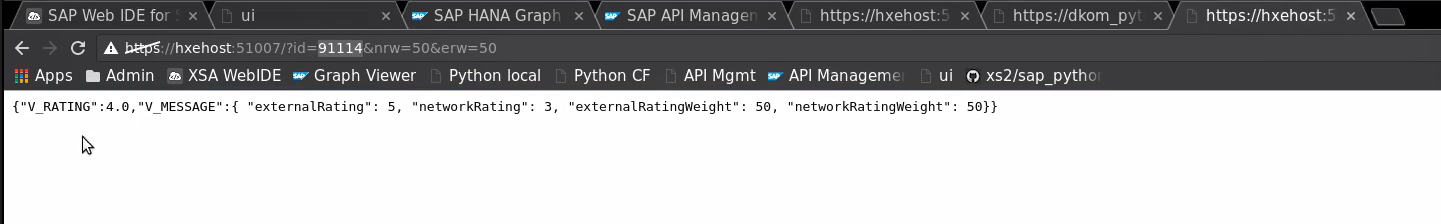
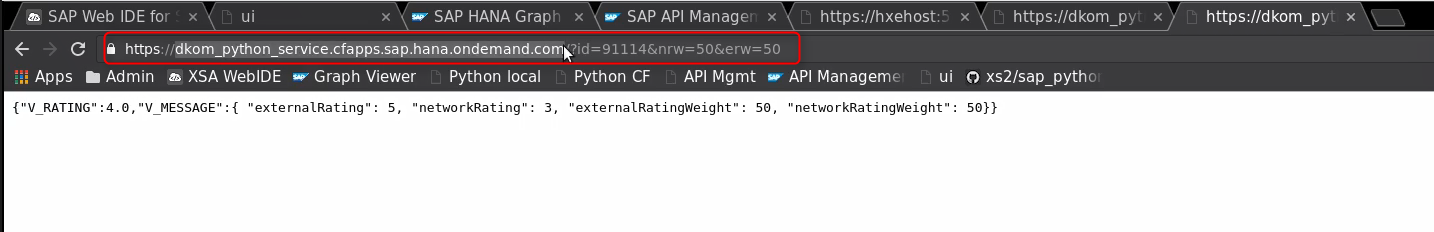
Updated browser deployment

Changed region(s): [[0.0, 0.0, 1.0, 0.4062], [0.0, 0.4375, 0.7057, 0.5], [0.0307, 0.6562, 0.0921, 0.6875]]

diff --git a/README.md b/README.md
@@ -248,14 +248,18 @@ Now, we’re done with the database artifacts. Let’s move on and create a cons
    
     ![Local deployment](https://github.com/AnnieSuantak/build-in-hxe-deploy-to-cloud/blob/master/Step4_2.png)
     
-3. The Python service is now deployed.
+3. The Python service is now starting up.
     ![Local deployment](https://github.com/AnnieSuantak/build-in-hxe-deploy-to-cloud/blob/master/Step4_3.png)
+    
+4. This deployment can be viewed on the browser. You can see the results for the stored procedure that was called.
+
+    ![Browser Local](https://github.com/AnnieSuantak/build-in-hxe-deploy-to-cloud/blob/master/Step4_4.png)
 
 [ACCORDION-END]
 
-[ACCORDION-BEGIN [Step 5: ](Deploy in CF & Show in Browser)]
+[ACCORDION-BEGIN [Step 5: ](Deploy on Cloud)]
 
-###Deploy in CF & Show in Browser
+###Deploy on Cloud
 
 1. This same service can also be deployed in the cloud. The `manifest-cf.yml` file enables the deployment. The only thing we have to do is to replace `xs` by `cf` in the command line, and `manifest.yml` by `manifest-cf.yml`
     
@@ -271,7 +275,7 @@ Now, we’re done with the database artifacts. Let’s move on and create a cons
     
 4. This deployment can be viewed on the browser. You can see the results for the stored procedure that was called.
     
-    ![Browser](https://github.com/AnnieSuantak/build-in-hxe-deploy-to-cloud/blob/master/Step5_4.png)
+    ![Browser Cloud](https://github.com/AnnieSuantak/build-in-hxe-deploy-to-cloud/blob/master/Step5_4.png)
 
 [ACCORDION-END]
 
@@ -284,7 +288,7 @@ Now, we’re done with the database artifacts. Let’s move on and create a cons
 ---
 
 ### A few notes
-- To conclude, with HANA Express, we developed a service on our way to the banking customer. When we arrived at the customer site, we were able to directly deploy the service into the Cloud. For the data, we required a document store and a graph engine. Here we were able to leverage the new HANA noSQL capabilities. On top of that, we had the freedom of choice with regards to the programming language and decided to use Python for our service wrapper. Any data, any programming language, any deployment, this is HANA 2.
+- To conclude, with SAP HANA, express edition, we were able to develop a service on the go, and also directly deploy the service in the cloud. For the data, we required a document store and a graph engine. Here we were able to leverage the new SAP HANA NoSQL capabilities. On top of that, we had the freedom to use the programming language of our choice and decided to use Python for our service wrapper. Any data, any programming language, any deployment, this is SAP HANA 2.0.
 
 
 ## Next Steps
